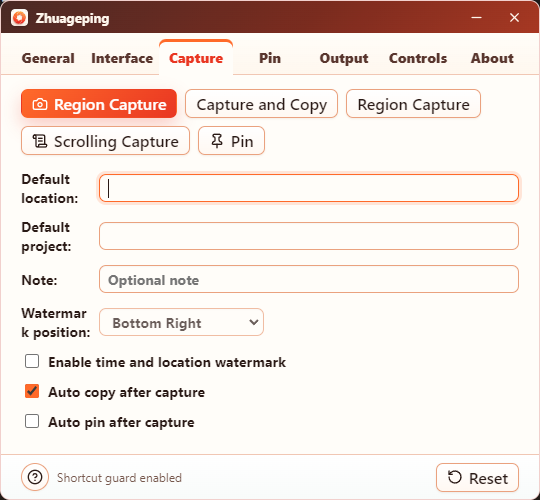
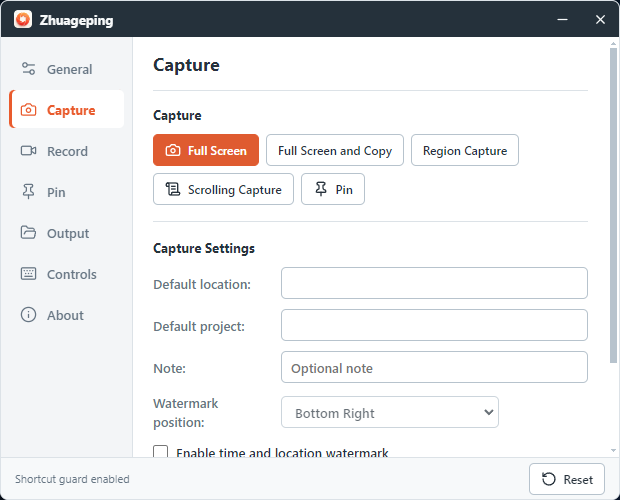
Refresh website visuals with latest UI screenshots

diff --git a/app/globals.css b/app/globals.css
@@ -1,6 +1,6 @@
 @import url('https://fonts.googleapis.com/css2?family=DM+Sans:wght@400;500;600;700&family=Manrope:wght@500;600;700;800&display=swap');
 
-:root { --ink:#1b1c1e; --muted:#74777b; --line:#e5e2dd; --paper:#f7f6f3; --white:#fff; --brand:#f05b3b; --brand-dark:#d9482c; --blue:#4d7db8; --green:#4b8b67; --night:#15171a; --night-soft:#202328; }
+:root { --ink:#162330; --muted:#657381; --line:#d8e0e7; --paper:#eef3f6; --white:#fff; --brand:#f05b3b; --brand-dark:#d9482c; --blue:#4d7db8; --green:#4b8b67; --night:#202c36; --night-soft:#293742; }
 * { box-sizing:border-box; }
 html { scroll-behavior:smooth; }
 body { margin:0; color:var(--ink); background:var(--paper); font-family:'DM Sans',Arial,sans-serif; -webkit-font-smoothing:antialiased; }
@@ -15,14 +15,14 @@ a { color:inherit; text-decoration:none; }
 .footer-links a { transition:color .18s ease; }.footer-links a:hover { color:var(--brand); }
 .github-link { display:flex; align-items:center; gap:6px; }
 .nav-actions { display:flex; align-items:center; gap:20px; }.language { display:flex; align-items:center; gap:4px; padding:0; border:0; background:transparent; color:#b0b4b8; cursor:pointer; font:inherit; font-size:13px; }
-.button { display:inline-flex; align-items:center; justify-content:center; gap:9px; min-height:46px; padding:0 18px; border:1px solid transparent; border-radius:8px; font-size:13px; font-weight:700; transition:transform .2s ease,background .2s ease,box-shadow .2s ease; }.button:hover { transform:translateY(-2px); }.button-primary { color:#fff; background:var(--brand); box-shadow:0 10px 24px rgba(240,91,59,.22); }.button-primary:hover { background:var(--brand-dark); }.button-quiet { color:var(--ink); background:transparent; }.button-quiet:hover { background:#eae7e2; }.button-small { min-height:37px; padding:0 17px; font-size:12px; }.nav .button-primary { color:#1b1c1e; background:#fff; box-shadow:none; }.nav .button-primary:hover { color:#fff; background:var(--brand); }
+.button { display:inline-flex; align-items:center; justify-content:center; gap:9px; min-height:46px; padding:0 18px; border:1px solid transparent; border-radius:8px; font-size:13px; font-weight:700; transition:transform .2s ease,background .2s ease,box-shadow .2s ease; }.button:hover { transform:translateY(-2px); }.button-primary { color:#fff; background:var(--brand); box-shadow:0 10px 24px rgba(240,91,59,.22); }.button-primary:hover { background:var(--brand-dark); }.button-quiet { color:var(--ink); background:transparent; }.button-quiet:hover { background:#e0e8ee; }.button-small { min-height:37px; padding:0 17px; font-size:12px; }.nav .button-primary { color:#1b1c1e; background:#fff; box-shadow:none; }.nav .button-primary:hover { color:#fff; background:var(--brand); }
 .hero { width:100%; max-width:none; margin:0; padding:104px max(24px,calc((100% - 1180px)/2)) 104px; display:grid; grid-template-columns:minmax(0,.82fr) minmax(450px,1.18fr); gap:74px; align-items:center; color:#f6f4ef; background:var(--night); overflow:hidden; }
 .hero::before { content:'01 / 04'; position:absolute; left:24px; margin-top:-360px; color:#60656c; font-size:10px; letter-spacing:.16em; }.hero-copy { position:relative; z-index:1; }.eyebrow,.kicker { color:var(--brand); font-size:10px; font-weight:800; letter-spacing:.17em; text-transform:uppercase; }.eyebrow { display:flex; align-items:center; gap:9px; }.eyebrow-dot { width:7px; height:7px; display:inline-block; border-radius:50%; background:var(--brand); box-shadow:0 0 0 4px rgba(240,91,59,.16); }
 h1,h2,h3 { font-family:Manrope,sans-serif; letter-spacing:-.06em; } h1 { max-width:670px; margin:23px 0 24px; font-size:clamp(48px,6.3vw,84px); line-height:.99; font-weight:800; } h1 em { color:#ff775b; font-style:normal; }.hero-lede { max-width:440px; margin:0; color:#aeb3b8; font-size:17px; line-height:1.65; }.hero-actions { display:flex; gap:11px; flex-wrap:wrap; margin:32px 0 25px; }.hero .button-quiet { color:#e8e5df; }.hero .button-quiet:hover { background:#292c30; }.hero-meta { display:flex; flex-wrap:wrap; gap:18px; color:#7d8389; font-size:11px; }.hero-meta span { display:flex; align-items:center; gap:5px; }.hero-meta svg { color:var(--brand); }
 .hero-visual { position:relative; min-height:445px; padding:17px 17px 20px; border:1px solid #3b4148; border-radius:12px; background:#202328; box-shadow:0 24px 65px rgba(0,0,0,.25); }.visual-glow { display:none; }.window-chrome { display:flex; align-items:center; gap:7px; height:28px; color:#bfc3c7; font-size:10px; }.window-chrome > span { width:7px; height:7px; border-radius:50%; background:#596169; }.window-chrome strong { margin-left:8px; font-weight:600; }.window-chrome small { margin-left:auto; color:#7e858d; }.editor-stage { position:relative; height:344px; overflow:hidden; border:1px solid #454d55; border-radius:5px; background:#0c0f12; }.editor-stage img { object-fit:cover; object-position:center; opacity:.7; filter:saturate(.72) contrast(1.08); }.selection-label { position:absolute; top:17px; right:17px; padding:7px 10px; border:1px solid rgba(255,119,91,.8); border-radius:4px; color:#fff; background:#e95a3d; font-size:10px; font-weight:700; }.visual-caption { display:flex; align-items:center; gap:8px; margin-top:14px; color:#9da4aa; font-size:11px; }.visual-caption span:last-child { margin-left:auto; padding:4px 8px; border:1px solid #41474e; border-radius:4px; color:#f2a18f; }.recording-dot { width:7px; height:7px; display:inline-block; border-radius:50%; background:#f25438; box-shadow:0 0 0 3px rgba(242,84,56,.16); }
-.proof-strip { background:#ece9e4; border-top:1px solid #dfdcd7; border-bottom:1px solid #dfdcd7; }.proof-inner { min-height:72px; display:flex; align-items:center; justify-content:space-between; gap:25px; color:#85827c; font-size:12px; }.proof-inner div { display:flex; align-items:center; gap:8px; color:#4e4e4b; font-weight:700; }.proof-inner svg { color:var(--brand); }
+.proof-strip { background:#e4ebf0; border-top:1px solid #d3dde5; border-bottom:1px solid #d3dde5; }.proof-inner { min-height:72px; display:flex; align-items:center; justify-content:space-between; gap:25px; color:#6d7c89; font-size:12px; }.proof-inner div { display:flex; align-items:center; gap:8px; color:#314454; font-weight:700; }.proof-inner svg { color:var(--brand); }
 .section { padding:132px 0; }.section-heading { display:flex; align-items:flex-end; justify-content:space-between; gap:60px; margin-bottom:51px; }.section-heading h2,.workflow-copy h2,.download-box h2 { margin:15px 0 0; font-size:clamp(36px,4.2vw,57px); line-height:1.06; }.section-heading p { max-width:310px; margin:0 0 5px; color:var(--muted); font-size:14px; line-height:1.65; }
-.feature-grid { display:grid; grid-template-columns:1fr 1fr; gap:14px; }.feature-card { position:relative; min-height:292px; padding:30px; overflow:hidden; border:1px solid var(--line); border-radius:10px; background:#fff; }.feature-card::after { content:''; position:absolute; right:-30px; bottom:-44px; width:145px; height:145px; border:1px solid #e8e3dd; border-radius:50%; }.dark-card { color:#fff; background:#24272b; border-color:#24272b; }.dark-card::after { border-color:#444a50; }.feature-top { display:flex; align-items:center; justify-content:space-between; }.icon-box { width:42px; height:42px; display:grid; place-items:center; border-radius:9px; color:var(--blue); background:#e9f0f8; }.icon-box.orange { color:var(--brand); background:#fff0e9; }.icon-box.blue { color:#4a78b1; background:#e8f0fa; }.icon-box.green { color:var(--green); background:#e8f1e9; }.feature-index { color:#a19c94; font-size:11px; font-weight:700; }.feature-card h3 { margin:38px 0 11px; font-size:26px; }.feature-card p { max-width:390px; margin:0; color:var(--muted); font-size:14px; line-height:1.62; }.dark-card p { color:#bac0c5; }.mini-selection { display:flex; align-items:center; gap:10px; margin-top:28px; color:#9ba2a8; font-size:11px; }.mini-selection i { flex:1; height:10px; border-top:1px solid #50575e; border-bottom:1px solid #50575e; }.tool-pills { display:flex; gap:8px; margin-top:28px; }.tool-pills span { width:30px; height:30px; display:grid; place-items:center; border-radius:6px; color:var(--brand); background:#fff0e9; font-weight:800; }.record-preview { display:flex; align-items:center; gap:9px; margin-top:28px; padding:11px 12px; border-radius:6px; color:#5d5954; background:#f3f0eb; font-size:11px; }.record-preview strong { color:#292621; }.record-preview button { margin-left:auto; border:0; color:var(--brand); background:none; }.privacy-line { display:flex; align-items:center; gap:7px; margin-top:27px; color:var(--green); font-size:12px; font-weight:700; }
+.feature-grid { display:grid; grid-template-columns:1fr 1fr; gap:14px; }.feature-card { position:relative; min-height:292px; padding:30px; overflow:hidden; border:1px solid var(--line); border-radius:10px; background:#fff; }.feature-card::after { content:''; position:absolute; right:-30px; bottom:-44px; width:145px; height:145px; border:1px solid #dfe7ed; border-radius:50%; }.dark-card { color:#fff; background:#293742; border-color:#293742; }.dark-card::after { border-color:#455661; }.feature-top { display:flex; align-items:center; justify-content:space-between; }.icon-box { width:42px; height:42px; display:grid; place-items:center; border-radius:9px; color:var(--blue); background:#e9f0f8; }.icon-box.orange { color:var(--brand); background:#fff0e9; }.icon-box.blue { color:#4a78b1; background:#e8f0fa; }.icon-box.green { color:var(--green); background:#e8f1e9; }.feature-index { color:#83919d; font-size:11px; font-weight:700; }.feature-card h3 { margin:38px 0 11px; font-size:26px; }.feature-card p { max-width:390px; margin:0; color:var(--muted); font-size:14px; line-height:1.62; }.dark-card p { color:#c1ccd4; }.mini-selection { display:flex; align-items:center; gap:10px; margin-top:28px; color:#a9b7c0; font-size:11px; }.mini-selection i { flex:1; height:10px; border-top:1px solid #5b6b76; border-bottom:1px solid #5b6b76; }.tool-pills { display:flex; gap:8px; margin-top:28px; }.tool-pills span { width:30px; height:30px; display:grid; place-items:center; border-radius:6px; color:var(--brand); background:#fff0e9; font-weight:800; }.record-preview { display:flex; align-items:center; gap:9px; margin-top:28px; padding:11px 12px; border-radius:6px; color:#5d6871; background:#edf2f5; font-size:11px; }.record-preview strong { color:#273640; }.record-preview button { margin-left:auto; border:0; color:var(--brand); background:none; }.privacy-line { display:flex; align-items:center; gap:7px; margin-top:27px; color:var(--green); font-size:12px; font-weight:700; }
 .workflow-section { padding:132px 0; color:#f4f2ed; background:var(--night); }.workflow-grid { display:grid; grid-template-columns:1fr 1fr; gap:100px; align-items:center; }.workflow-copy h2 { color:#f4f2ed; }.steps { display:grid; gap:25px; margin-top:43px; }.step { display:flex; gap:19px; color:#7f858b; }.step > span { color:#686e75; font-size:11px; font-weight:800; }.step strong { color:#dfe1dd; font-size:15px; }.step p { margin:6px 0 0; font-size:13px; line-height:1.55; }.step.active > span,.step.active strong { color:#ff765a; }.workflow-image { position:relative; height:414px; overflow:hidden; border:9px solid #262a2e; border-radius:11px; background:#0e1114; box-shadow:0 20px 45px rgba(0,0,0,.25); }.workflow-image img { object-fit:cover; opacity:.78; }.workflow-note { position:absolute; bottom:16px; left:16px; display:flex; align-items:center; gap:8px; padding:10px 13px; border-radius:6px; color:#36332e; background:#fff; font-size:12px; box-shadow:0 5px 16px rgba(0,0,0,.2); }.workflow-note svg { color:var(--brand); }
 .download-section { padding:118px 0; }.download-box { display:flex; align-items:center; justify-content:space-between; gap:50px; padding:60px; color:#f6f3ee; border-radius:11px; background:#24272b; }.download-box h2 { color:#fff; }.download-box p { margin:18px 0 0; color:#b7b8b6; }.download-actions { display:flex; flex-direction:column; align-items:flex-start; gap:13px; }.download-actions span { color:#8b9298; font-size:11px; }
 .footer { display:flex; align-items:center; gap:35px; padding:28px 0 36px; border-top:1px solid var(--line); }.footer-links { display:flex; gap:25px; color:#77736d; font-size:12px; }.footer p { margin-left:auto; color:#99938c; font-size:11px; }

diff --git a/app/page.tsx b/app/page.tsx
@@ -68,7 +68,7 @@ export default function Home({ initialLocale = "zh" }: { initialLocale?: "en" | 
           <div className="visual-glow" />
           <div className="window-chrome"><span /><span /><span /><strong>{zh ? "抓个屏 · 截图编辑器" : "Zhuageping · Screenshot editor"}</strong><small>1280 × 720</small></div>
           <div className="editor-stage">
-            <Image src="/screenshots/editor-toolbar.png" alt="Zhuageping screenshot annotation toolbar" fill sizes="(max-width: 900px) 90vw, 680px" priority />
+            <Image src="/screenshots/preferences-capture.png" alt="Zhuageping capture preferences" fill sizes="(max-width: 900px) 90vw, 680px" priority />
             <div className="selection-label">1,280 × 720</div>
           </div>
           <div className="visual-caption"><span className="recording-dot" /> {zh ? "随时开始" : "Ready when you are"} <span>F1</span></div>
@@ -87,7 +87,7 @@ export default function Home({ initialLocale = "zh" }: { initialLocale?: "en" | 
         </div>
       </section>
 
-      <section className="workflow-section" id="workflow"><div className="shell workflow-grid"><div className="workflow-copy"><div className="kicker">{zh ? "安静的工作流" : "A QUIET WORKFLOW"}</div><h2>{zh ? <>从想法到<br />可分享，只需几秒。</> : <>From thought<br />to shareable in seconds.</>}</h2><div className="steps"><div className="step active"><span>01</span><div><strong>{zh ? "按下 F1" : "Press F1"}</strong><p>{zh ? "不用离开当前窗口，即可呼出截图覆盖层。" : "Bring up the capture overlay without leaving your current window."}</p></div></div><div className="step"><span>02</span><div><strong>{zh ? "让内容更清楚" : "Make it clear"}</strong><p>{zh ? "添加标注、隐藏敏感信息，或使用 OCR 提取文字。" : "Annotate, blur sensitive details, or pull text with OCR."}</p></div></div><div className="step"><span>03</span><div><strong>{zh ? "保存或置顶" : "Save or pin"}</strong><p>{zh ? "复制、保存到本地、置顶参考，然后继续工作。" : "Copy, save locally, pin for reference, and get back to work."}</p></div></div></div></div><div className="workflow-image"><Image src="/screenshots/color-picker.png" alt={zh ? "抓个屏取色与像素检查界面" : "Color picker and pixel inspection in Zhuageping"} fill sizes="(max-width: 900px) 90vw, 600px" /><div className="workflow-note"><TimerReset size={16} /> {zh ? "工具就在你需要的地方。" : "Your tools, right where you need them."}</div></div></div></section>
+      <section className="workflow-section" id="workflow"><div className="shell workflow-grid"><div className="workflow-copy"><div className="kicker">{zh ? "安静的工作流" : "A QUIET WORKFLOW"}</div><h2>{zh ? <>从想法到<br />可分享，只需几秒。</> : <>From thought<br />to shareable in seconds.</>}</h2><div className="steps"><div className="step active"><span>01</span><div><strong>{zh ? "按下 F1" : "Press F1"}</strong><p>{zh ? "不用离开当前窗口，即可呼出截图覆盖层。" : "Bring up the capture overlay without leaving your current window."}</p></div></div><div className="step"><span>02</span><div><strong>{zh ? "让内容更清楚" : "Make it clear"}</strong><p>{zh ? "添加标注、隐藏敏感信息，或使用 OCR 提取文字。" : "Annotate, blur sensitive details, or pull text with OCR."}</p></div></div><div className="step"><span>03</span><div><strong>{zh ? "保存或置顶" : "Save or pin"}</strong><p>{zh ? "复制、保存到本地、置顶参考，然后继续工作。" : "Copy, save locally, pin for reference, and get back to work."}</p></div></div></div></div><div className="workflow-image"><Image src="/screenshots/preferences-record.png" alt={zh ? "抓个屏录屏设置界面" : "Zhuageping recording preferences"} fill sizes="(max-width: 900px) 90vw, 600px" /><div className="workflow-note"><TimerReset size={16} /> {zh ? "工具就在你需要的地方。" : "Your tools, right where you need them."}</div></div></div></section>
 
       <section className="download-section shell" id="download"><div className="download-box"><div><div className="kicker">{zh ? "随时开始" : "READY WHEN YOU ARE"}</div><h2>{zh ? <>让下一次说明<br />变得更简单。</> : <>Make your next explanation<br />a little easier.</>}</h2><p>{zh ? "下载 Windows 版抓个屏，把重要想法留在手边。" : "Download Zhuageping for Windows and keep your best ideas close."}</p></div><div className="download-actions"><a className="button button-primary" href={downloadUrl} target="_blank" rel="noreferrer"><Download size={18} /> {zh ? "下载最新版本" : "Download latest release"}</a><span>Windows 10 / 11 · v0.1.22</span></div></div></section>
 
